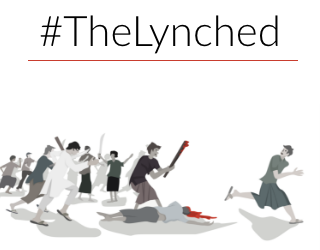
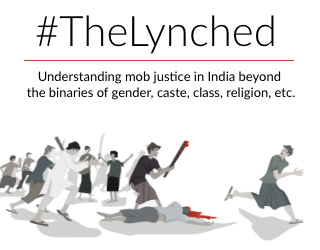
styling bug fix

Changed region(s): [[0.0938, 0.056, 0.875, 0.224], [0.0625, 0.28, 0.9375, 0.42]]

diff --git a/data-dictionary.html b/data-dictionary.html
@@ -29,10 +29,10 @@
         <div class="ui grid cover-image-div" >
           <img class="cover-image" src="src/img/lynching-cover-desktop.png" >
           <img class="cover-image-mobile" src="src/img/lynching-cover-mobile.png" width="100%" >
-          <p class="notes-div">Understanding mob justice in India beyond the binaries of gender, caste, class, religion, etc.</p>
+          <p class="notes-div disclaimer-text">Disclaimer - This project aims to look at how such incidents could<br>possibly have been avoided and is an imperfect work in progress.</p>
         </div>
         <div class="ui grid">
-          <h1>How we filled the data?</h1>
+          <h1 class="centr">How we filled the data?</h1>
         </div>
         <div class="ui grid">
           <br/><br/><br/>

diff --git a/index.html b/index.html
@@ -28,7 +28,7 @@
     <div class="ui grid cover-image-div" >
       <img class="cover-image" src="src/img/lynching-cover-desktop.png" >
       <img class="cover-image-mobile" src="src/img/lynching-cover-mobile.png" width="100%" >
-      <p class="notes-div">Understanding mob justice in India beyond the binaries of gender, caste, class, religion, etc.</p>
+      <p class="notes-div disclaimer-text">Disclaimer - This project aims to look at how such incidents could<br>possibly have been avoided and is an imperfect work in progress.</p>
       <div class="banner-div">
         <a class="data-url" href="data.html">
           <div class="counter-area">

diff --git a/about.html b/about.html
@@ -30,7 +30,7 @@
   <div class="ui grid cover-image-div">
     <img class="cover-image" src="src/img/lynching-cover-desktop.png" >
     <img class="cover-image-mobile" src="src/img/lynching-cover-mobile.png" width="100%" >
-    <p>Understanding mob justice in India beyond the binaries of gender, caste, class, religion, etc.</p>
+    <p class="notes-div disclaimer-text">Disclaimer - This project aims to look at how such incidents could<br>possibly have been avoided and is an imperfect work in progress.</p>
   </div>
   <div class="ui grid">
     <h1 class="centr">About the project</h1>

diff --git a/data.html b/data.html
@@ -29,7 +29,7 @@
     <div class="ui grid cover-image-div" >
       <img class="cover-image" src="src/img/lynching-cover-desktop.png" >
       <img class="cover-image-mobile" src="src/img/lynching-cover-mobile.png" width="100%" >
-      <p class="notes-div">Understanding mob justice in India beyond the binaries of gender, caste, class, religion, etc.</p>
+      <p class="notes-div disclaimer-text">Disclaimer - This project aims to look at how such incidents could<br>possibly have been avoided and is an imperfect work in progress.</p>
     </div>
 
     <div class="ui grid">

diff --git a/src/css/styles.css b/src/css/styles.css
@@ -15,6 +15,14 @@
   margin-bottom: 20px;
 }
 
+.disclaimer-text{
+  width: 100%;
+  text-align: right;
+  font-size: 10px;
+  color: grey;
+  font-weight: 100;
+}
+
 .green{
   color: green;
 }
@@ -27,6 +35,7 @@
 
 .centr{
     text-align: center;
+    width: 100%;
 }
 .right{
   text-align: right;
